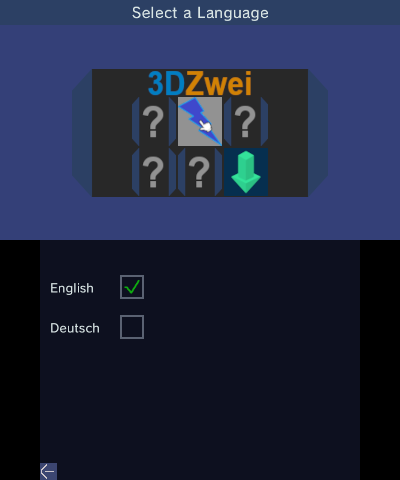
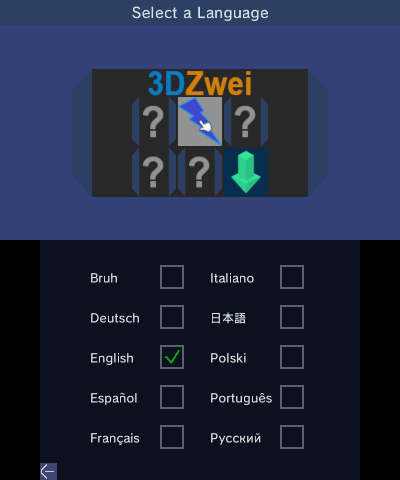
Game Settings: If character index out of scope -> Use index 0.
Also display `Game Defaults` on the top bar, if configuring the default game settings, and `Game Configuration` if accessing via `Game`.

ALSO: Fix tab switch potential getting stuck on the Game Configuration overlay.

ALSO: Swipe the left and right boxes together on the Language Selector at overlay access.

diff --git a/3ds/source/Overlays/Selectors/LanguageSelector.cpp b/3ds/source/Overlays/Selectors/LanguageSelector.cpp
@@ -110,77 +110,93 @@ void LanguageSelector::Action() {
 		C3D_FrameBegin(C3D_FRAME_SYNCDRAW);
 
 		GFX::DrawTop();
-		Gui::DrawStringCentered(0, 3, 0.6f, TEXT_COLOR, Lang::Get("LANG_SELECTOR_TITLE"), 395);
-		Gui::DrawSprite(GFX::Sprites, sprites_logo_idx, 72, 69); // Display Logo.
+		Gui::DrawStringCentered(0 - this->Delay, 3, 0.6f, TEXT_COLOR, Lang::Get("LANG_SELECTOR_TITLE"), 395);
+		Gui::DrawSprite(GFX::Sprites, sprites_logo_idx, 72 - this->Delay, 69); // Display Logo.
 		if (_3DZwei::CFG->DoAnimation() && _3DZwei::CFG->DoFade()) {
-			if (this->FAlpha > 0) Gui::Draw_Rect(0, 0, 400, 240, C2D_Color32(0, 0, 0, this->FAlpha));
-		}
+			if (this->Delay > 0) Gui::Draw_Rect(0, 0, 400, 240, C2D_Color32(0, 0, 0, this->Delay));
+		};
 
 		GFX::DrawBottom();
 		Gui::Draw_Rect(0, 0, 320, 240, C2D_Color32(0, 0, 0, 190)); // Darker screen.
 
 		/* Bruh. */
-		Gui::DrawString(this->Positions[0].X - 70, this->Positions[0].Y + 5, 0.5f, TEXT_COLOR, "Bruh");
-		GFX::DrawCheckbox(this->Positions[0].X, this->Positions[0].Y, _3DZwei::CFG->Lang() == "br");
+		Gui::DrawString(this->Positions[0].X - 70 - this->Delay, this->Positions[0].Y + 5, 0.5f, TEXT_COLOR, "Bruh");
+		GFX::DrawCheckbox(this->Positions[0].X - this->Delay, this->Positions[0].Y, _3DZwei::CFG->Lang() == "br");
 
 		/* Deutsch. */
-		Gui::DrawString(this->Positions[1].X - 70, this->Positions[1].Y + 5, 0.5f, TEXT_COLOR, "Deutsch");
-		GFX::DrawCheckbox(this->Positions[1].X, this->Positions[1].Y, _3DZwei::CFG->Lang() == "de");
+		Gui::DrawString(this->Positions[1].X - 70 - this->Delay, this->Positions[1].Y + 5, 0.5f, TEXT_COLOR, "Deutsch");
+		GFX::DrawCheckbox(this->Positions[1].X - this->Delay, this->Positions[1].Y, _3DZwei::CFG->Lang() == "de");
 
 		/* English. */
-		Gui::DrawString(this->Positions[2].X - 70, this->Positions[2].Y + 5, 0.5f, TEXT_COLOR, "English");
-		GFX::DrawCheckbox(this->Positions[2].X, this->Positions[2].Y, _3DZwei::CFG->Lang() == "en");
+		Gui::DrawString(this->Positions[2].X - 70 - this->Delay, this->Positions[2].Y + 5, 0.5f, TEXT_COLOR, "English");
+		GFX::DrawCheckbox(this->Positions[2].X - this->Delay, this->Positions[2].Y, _3DZwei::CFG->Lang() == "en");
 
 		/* Español. */
-		Gui::DrawString(this->Positions[3].X - 70, this->Positions[3].Y + 5, 0.5f, TEXT_COLOR, "Español");
-		GFX::DrawCheckbox(this->Positions[3].X, this->Positions[3].Y, _3DZwei::CFG->Lang() == "es");
+		Gui::DrawString(this->Positions[3].X - 70 - this->Delay, this->Positions[3].Y + 5, 0.5f, TEXT_COLOR, "Español");
+		GFX::DrawCheckbox(this->Positions[3].X - this->Delay, this->Positions[3].Y, _3DZwei::CFG->Lang() == "es");
 
 		/* Français. */
-		Gui::DrawString(this->Positions[4].X - 70, this->Positions[4].Y + 5, 0.5f, TEXT_COLOR, "Français");
-		GFX::DrawCheckbox(this->Positions[4].X, this->Positions[4].Y, _3DZwei::CFG->Lang() == "fr");
+		Gui::DrawString(this->Positions[4].X - 70 - this->Delay, this->Positions[4].Y + 5, 0.5f, TEXT_COLOR, "Français");
+		GFX::DrawCheckbox(this->Positions[4].X - this->Delay, this->Positions[4].Y, _3DZwei::CFG->Lang() == "fr");
 
 		/* Italiano. */
-		Gui::DrawString(this->Positions[5].X - 70, this->Positions[5].Y + 5, 0.5f, TEXT_COLOR, "Italiano");
-		GFX::DrawCheckbox(this->Positions[5].X, this->Positions[5].Y, _3DZwei::CFG->Lang() == "it");
+		Gui::DrawString(this->Positions[5].X - 70 + this->Delay, this->Positions[5].Y + 5, 0.5f, TEXT_COLOR, "Italiano");
+		GFX::DrawCheckbox(this->Positions[5].X + this->Delay, this->Positions[5].Y, _3DZwei::CFG->Lang() == "it");
 
 		/* 日本語. */
-		Gui::DrawString(this->Positions[6].X - 70, this->Positions[6].Y + 5, 0.5f, TEXT_COLOR, "日本語");
-		GFX::DrawCheckbox(this->Positions[6].X, this->Positions[6].Y, _3DZwei::CFG->Lang() == "ja");
+		Gui::DrawString(this->Positions[6].X - 70 + this->Delay, this->Positions[6].Y + 5, 0.5f, TEXT_COLOR, "日本語");
+		GFX::DrawCheckbox(this->Positions[6].X + this->Delay, this->Positions[6].Y, _3DZwei::CFG->Lang() == "ja");
 
 		/* Polski. */
-		Gui::DrawString(this->Positions[7].X - 70, this->Positions[7].Y + 5, 0.5f, TEXT_COLOR, "Polski");
-		GFX::DrawCheckbox(this->Positions[7].X, this->Positions[7].Y, _3DZwei::CFG->Lang() == "pl");
+		Gui::DrawString(this->Positions[7].X - 70 + this->Delay, this->Positions[7].Y + 5, 0.5f, TEXT_COLOR, "Polski");
+		GFX::DrawCheckbox(this->Positions[7].X + this->Delay, this->Positions[7].Y, _3DZwei::CFG->Lang() == "pl");
 
 		/* Português. */
-		Gui::DrawString(this->Positions[8].X - 70, this->Positions[8].Y + 5, 0.5f, TEXT_COLOR, "Português");
-		GFX::DrawCheckbox(this->Positions[8].X, this->Positions[8].Y, _3DZwei::CFG->Lang() == "pt");
+		Gui::DrawString(this->Positions[8].X - 70 + this->Delay, this->Positions[8].Y + 5, 0.5f, TEXT_COLOR, "Português");
+		GFX::DrawCheckbox(this->Positions[8].X + this->Delay, this->Positions[8].Y, _3DZwei::CFG->Lang() == "pt");
 
 		/* Русский. */
-		Gui::DrawString(this->Positions[9].X - 70, this->Positions[9].Y + 5, 0.5f, TEXT_COLOR, "Русский");
-		GFX::DrawCheckbox(this->Positions[9].X, this->Positions[9].Y, _3DZwei::CFG->Lang() == "ru");
+		Gui::DrawString(this->Positions[9].X - 70 + this->Delay, this->Positions[9].Y + 5, 0.5f, TEXT_COLOR, "Русский");
+		GFX::DrawCheckbox(this->Positions[9].X + this->Delay, this->Positions[9].Y, _3DZwei::CFG->Lang() == "ru");
 
 		Gui::Draw_Rect(this->Positions[10].X, this->Positions[10].Y, this->Positions[10].W, this->Positions[10].H, KBD_KEYPRESSED); // Back.
 		Gui::DrawSprite(GFX::Sprites, sprites_back_btn_idx, this->Positions[10].X, this->Positions[10].Y);
 
 		Pointer::Draw();
 		if (_3DZwei::CFG->DoAnimation() && _3DZwei::CFG->DoFade()) {
-			if (this->FAlpha > 0) Gui::Draw_Rect(0, 0, 320, 240, C2D_Color32(0, 0, 0, this->FAlpha));
-		}
+			if (this->Delay > 0) Gui::Draw_Rect(0, 0, 320, 240, C2D_Color32(0, 0, 0, this->Delay));
+		};
 		C3D_FrameEnd(0);
 
-		if (this->FadeIn) {
-			if (!_3DZwei::CFG->DoAnimation() || !_3DZwei::CFG->DoFade()) this->FAlpha = 0, this->FadeIn = false;
-			if (this->FAlpha > 0) this->FAlpha -= 5;
-			if (this->FAlpha <= 0) this->FadeIn = false;
+		if (this->Start) {
+			if (!_3DZwei::CFG->DoAnimation() || !_3DZwei::CFG->DoFade()) this->Delay = 0, this->Start = false;
+			else {
+				if (this->Cubic < 255.0f) {
+					this->Cubic = std::lerp(this->Cubic, 256.0f, 0.1f);
+					this->Delay = 255 - this->Cubic;
+
+					if (this->Cubic >= 255.0f) {
+						this->Delay = 0, this->Cubic = 0.0f, this->Start = false;
+					}
+				}
+			}
 
 		} else {
 			if (this->Done) {
 				hidScanInput();
 				const uint32_t Down = hidKeysDown();
 
-				if (!_3DZwei::CFG->DoAnimation() || !_3DZwei::CFG->DoFade() || Down) this->FullDone = true;
-				if (this->FAlpha < 255) this->FAlpha += 5;
-				if (this->FAlpha >= 255) this->FullDone = true;
+				if (!_3DZwei::CFG->DoAnimation() || !_3DZwei::CFG->DoFade() || Down) this->Delay = 255, this->FullDone = true;
+				else {
+					if (this->Cubic < 255.0f) {
+						this->Cubic = std::lerp(this->Cubic, 256.0f, 0.1f);
+						this->Delay = this->Cubic;
+
+						if (this->Cubic >= 255.0f) {
+							this->Delay = 255, this->Cubic = 0.0f, this->FullDone = true;
+						}
+					}
+				}
 
 			} else {
 				hidScanInput();

diff --git a/3ds/source/Overlays/Game/GameSettings.cpp b/3ds/source/Overlays/Game/GameSettings.cpp
@@ -41,7 +41,7 @@
 
 
 /* Constructor. */
-GameSettings::GameSettings(const GameSettings::GameParams &Defaults) : Params(Defaults) {
+GameSettings::GameSettings(const GameSettings::GameParams &Defaults, const bool IsSetting) : Params(Defaults), IsSetting(IsSetting) {
 	if (!_3DZwei::CFG->DoAnimation()) this->FAlpha = 0;
 };
 
@@ -199,9 +199,9 @@ void GameSettings::SetName(const bool AI) {
 
 
 /* Draw the Overlay. */
-void GameSettings::Draw() {
+void GameSettings::Draw(const bool IsSetting) {
 	GFX::DrawTop();
-	Gui::DrawStringCentered(0, 3, 0.6f, TEXT_COLOR, Lang::Get("GAME_SETTINGS_TITLE"), 395);
+	Gui::DrawStringCentered(0, 3, 0.6f, TEXT_COLOR, (IsSetting ? Lang::Get("SETTINGS_GAME_DEFAULTS") : Lang::Get("GAME_SETTINGS_TITLE")), 395);
 	Gui::DrawSprite(GFX::Sprites, sprites_logo_idx, 72, 69); // Display Logo.
 	if (_3DZwei::CFG->DoAnimation() && _3DZwei::CFG->DoFade()) {
 		if (this->FAlpha > 0) Gui::Draw_Rect(0, 0, 400, 240, C2D_Color32(0, 0, 0, this->FAlpha));
@@ -363,12 +363,16 @@ GameSettings::GameParams GameSettings::Action() {
 	if (this->Params.Names[0] == "%Player1%") this->Params.Names[0] = Lang::Get("PLAYER_1");
 	if (this->Params.Names[1] == "%Player2%") this->Params.Names[1] = Lang::Get("PLAYER_2");
 
+	/* Check for in range, and if out of range, set to 0. */
+	if (this->Params.Characters[0] >= Utils::GetCharSheetSize()) this->Params.Characters[0] = 0;
+	if (this->Params.Characters[1] >= Utils::GetCharSheetSize()) this->Params.Characters[1] = 0;
+
 	while(aptMainLoop() && !this->FullDone) {
 		Gui::clearTextBufs();
 		C2D_TargetClear(Top, C2D_Color32(0, 0, 0, 0));
 		C2D_TargetClear(Bottom, C2D_Color32(0, 0, 0, 0));
 		C3D_FrameBegin(C3D_FRAME_SYNCDRAW);
-		this->Draw();
+		this->Draw(this->IsSetting);
 		C3D_FrameEnd(0);
 		this->TabLogic();
 	};
@@ -412,10 +416,10 @@ void GameSettings::TabLogic() {
 
 		} else {
 			if (this->T1Offs <= 0) {
-				this->Cubic = std::lerp(this->Cubic, 320.0f, 0.1f);
+				this->Cubic = std::lerp(this->Cubic, 321.0f, 0.1f);
 				this->T1Offs = -320 + this->Cubic;
 
-				if (this->Cubic >= 319.9f) {
+				if (this->Cubic >= 320.0f) {
 					this->T1Offs = 0;
 					this->Cubic = 0.0f;
 					this->Tab = Tabs::General;
@@ -435,15 +439,16 @@ void GameSettings::TabLogic() {
 				this->T2Offs = 0;
 				this->Tab = Tabs::Player;
 				this->DoSwipe = false;
+				this->Cubic = 0.0f;
 
 			} else {
-				if (this->Cubic < 320) {
-					this->Cubic = std::lerp(this->Cubic, 320.0f, 0.1f);
+				if (this->Cubic < 320.0f) {
+					this->Cubic = std::lerp(this->Cubic, 321.0f, 0.1f);
 
 					this->T1Offs = 0 - this->Cubic;
 					this->T2Offs = 320 - this->Cubic;
 
-					if (this->Cubic >= 319.9f) {
+					if (this->Cubic >= 320.0f) {
 						this->T1Offs = -320;
 						this->T2Offs = 0;
 						this->Cubic = 0.0f;
@@ -459,14 +464,15 @@ void GameSettings::TabLogic() {
 				this->T2Offs = 320;
 				this->Tab = Tabs::General;
 				this->DoSwipe = false;
+				this->Cubic = 0.0f;
 
 			} else {
-				if (this->Cubic < 320) {
-					this->Cubic = std::lerp(this->Cubic, 320.0f, 0.1f);
+				if (this->Cubic < 320.0f) {
+					this->Cubic = std::lerp(this->Cubic, 321.0f, 0.1f);
 					this->T2Offs = this->Cubic;
 					this->T1Offs = -320 + this->Cubic;
 
-					if (this->Cubic >= 319.9f) {
+					if (this->Cubic >= 320.0f) {
 						this->T1Offs = 0;
 						this->T2Offs = 320;
 						this->Tab = Tabs::General;

diff --git a/3ds/include/Overlays/SettingsOverlay.hpp b/3ds/include/Overlays/SettingsOverlay.hpp
@@ -75,10 +75,10 @@ private:
 		{ 107, 0, 106, 20, [this]() { this->AnimationTab(); } },
 		{ 213, 0, 106, 20, [this]() { this->AppinfoTab(); } },
 
-		{ 150, 35, 24, 24, [this]() { this->ToggleAnimation(); } },
-		{ 150, 70, 24, 24, [this]() { this->SwitchGameAnim(); } },
-		{ 150, 105, 24, 24, [this]() { this->TogglePageSwitch(); } },
-		{ 150, 140, 24, 24, [this]() { this->ToggleFade(); } },
+		{ 150, 30, 24, 24, [this]() { this->ToggleAnimation(); } },
+		{ 150, 65, 24, 24, [this]() { this->SwitchGameAnim(); } },
+		{ 150, 100, 24, 24, [this]() { this->TogglePageSwitch(); } },
+		{ 150, 135, 24, 24, [this]() { this->ToggleFade(); } },
 
 		{ 0, 223, 17, 17, [this]() { this->Back(); } }
 	};
@@ -88,13 +88,13 @@ private:
 		{ 107, 0, 106, 20, [this]() { this->AnimationTab(); } },
 		{ 213, 0, 106, 20, [this]() { this->AppinfoTab(); } },
 
-		{ 150, 35, 24, 24, [this]() { this->SelectLang(); } },
-		{ 150, 70, 24, 24, [this]() { this->SelectCardSet(); } },
-		{ 150, 105, 24, 24, [this]() { this->SelectCharSet(); } },
-		{ 150, 140, 24, 24, [this]() { this->ToggleSplash(); } },
-		{ 200, 140, 24, 24, [this]() { this->ShowSplash(); } },
-		{ 150, 175, 24, 24, [this]() { this->SetPointerSpeed(); } },
-		{ 150, 210, 24, 24, [this]() { this->SetGameDefaults(); } },
+		{ 150, 30, 24, 24, [this]() { this->SelectLang(); } },
+		{ 150, 65, 24, 24, [this]() { this->SelectCardSet(); } },
+		{ 150, 100, 24, 24, [this]() { this->SelectCharSet(); } },
+		{ 150, 135, 24, 24, [this]() { this->ToggleSplash(); } },
+		{ 200, 135, 24, 24, [this]() { this->ShowSplash(); } },
+		{ 150, 170, 24, 24, [this]() { this->SetPointerSpeed(); } },
+		{ 150, 205, 24, 24, [this]() { this->SetGameDefaults(); } },
 
 		{ 0, 223, 17, 17, [this]() { this->Back(); } }
 	};

diff --git a/3ds/include/Overlays/Game/GameSettings.hpp b/3ds/include/Overlays/Game/GameSettings.hpp
@@ -54,14 +54,14 @@ public:
 		bool CancelGame = false; // If Game should be cancelled or not.
 	};
 
-	GameSettings(const GameParams &Defaults);
+	GameSettings(const GameParams &Defaults, const bool IsSetting = false);
 	GameParams Action();
 private:
 	enum class Tabs : uint8_t { General = 0, Player = 1 };
 
 	GameParams Params;
 	Tabs Tab = Tabs::General;
-	bool Done = false, FullDone = false, DoSwipe = false, SwipeDirection = false, InitialSwipe = true;
+	bool Done = false, FullDone = false, DoSwipe = false, SwipeDirection = false, InitialSwipe = true, IsSetting = false;
 	int FAlpha = 255, T1Offs = -320, T2Offs = 320;
 	float Cubic = 0.0f;
 
@@ -76,7 +76,7 @@ private:
 		if (this->Tab != Tabs::Player) this->SwipeDirection = true, this->DoSwipe = true;
 	};
 
-	void Draw();
+	void Draw(const bool IsSetting = false);
 	void FadeOut();
 	void TabLogic();
 

diff --git a/3ds/source/Overlays/SettingsOverlay.cpp b/3ds/source/Overlays/SettingsOverlay.cpp
@@ -188,7 +188,7 @@ void SettingsOverlay::SetPointerSpeed() {
 /* Set Game Defaults. */
 void SettingsOverlay::SetGameDefaults() {
 	if (this->Tab == SettingsTab::Configuration) {
-		std::unique_ptr<GameSettings> Ovl = std::make_unique<GameSettings>(_3DZwei::CFG->GetDefault());
+		std::unique_ptr<GameSettings> Ovl = std::make_unique<GameSettings>(_3DZwei::CFG->GetDefault(), true);
 		const GameSettings::GameParams P = Ovl->Action();
 		if (!P.CancelGame) _3DZwei::CFG->SetDefault(P); // Only set if NOT cancelled.
 	};

diff --git a/3ds/source/3DZwei.cpp b/3ds/source/3DZwei.cpp
@@ -80,7 +80,7 @@ _3DZwei::_3DZwei() {
 void _3DZwei::PrepareGame() {
 	this->FadeOutHandler(); // Fade out.
 
-	std::unique_ptr<GameSettings> Ovl = std::make_unique<GameSettings>(_3DZwei::CFG->GetDefault());
+	std::unique_ptr<GameSettings> Ovl = std::make_unique<GameSettings>(_3DZwei::CFG->GetDefault(), false);
 	const GameSettings::GameParams Params = Ovl->Action();
 
 	if (Utils::Cards.size() > 0 && !Params.CancelGame) { // At least 1 pair should exist and the game NOT cancelled!!!

diff --git a/3ds/include/Overlays/Selectors/LanguageSelector.hpp b/3ds/include/Overlays/Selectors/LanguageSelector.hpp
@@ -35,8 +35,9 @@ public:
 	LanguageSelector() { };
 	void Action();
 private:
-	bool Done = false, FullDone = false, FadeIn = true;
-	uint8_t FAlpha = 255;
+	bool Done = false, FullDone = false, Start = true;
+	int16_t Delay = 255;
+	float Cubic = 0.0f;
 
 	void SelectLang(const uint8_t Idx);
 	void Cancel();
